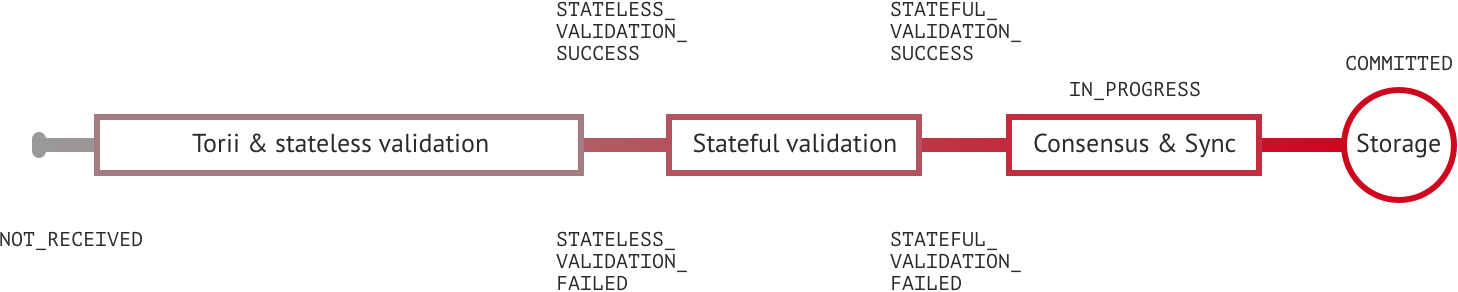
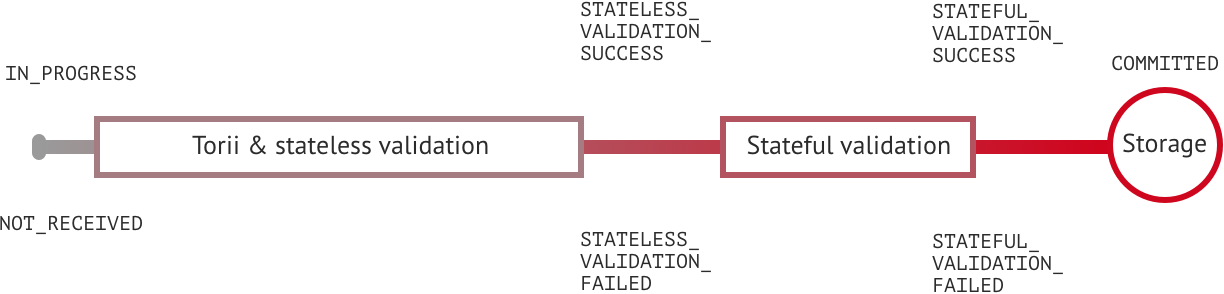
Update status info and fix typo

diff --git a/source/includes/_transactions.md b/source/includes/_transactions.md
@@ -104,10 +104,10 @@ This section describes the set of states and matches them with transaction lifec
 
 ![Block](../images/tx_status.png "Block structure")
 
- * `NOT_RECEIVED`: the peer does not this transaction.
+ * `NOT_RECEIVED`: the peer does not have this transaction.
  * `STATELESS_VALIDATION_FAILED`: the transaction was formed with some fields, not meeting constraints. This status is returned to a client, who formed transaction, right after the transaction was sent. 
  * `STATELESS_VALIDATION_SUCCESS`: the transaction has successfully passed stateless validation. This status is returned to a client, who formed transaction, right after the transaction was sent. 
  * `STATEFUL_VALIDATION_FAILED`: the transaction has commands, which violate validation rules, checking state of the chain (e.g. asset balance, account permissions, etc.) 
  * `STATEFUL_VALIDATION_SUCCESS`: the transaction has successfully passed stateful validation.
- * `IN_PROGRESS`: the transaction is the part of a block, which is on voting during current consensus round.
+ * `IN_PROGRESS`: the transaction was received, but not yet processed by stateless validator
  * `COMMITTED`: the transaction is the part of a block, which gained enough votes and is in the block store at the moment. 
